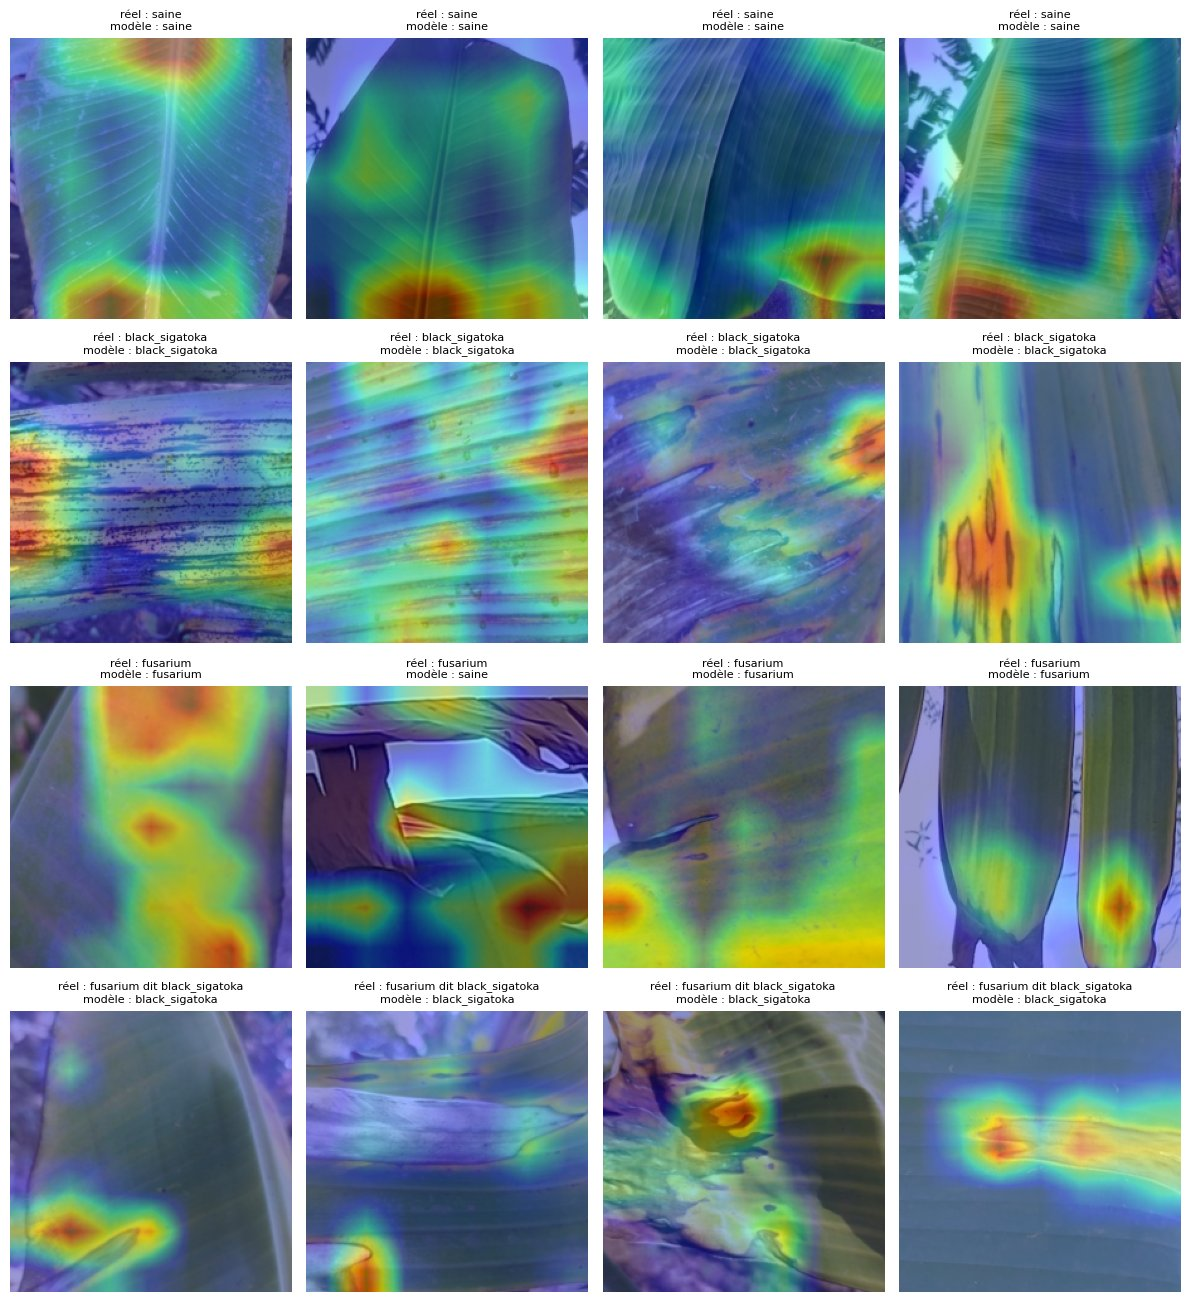
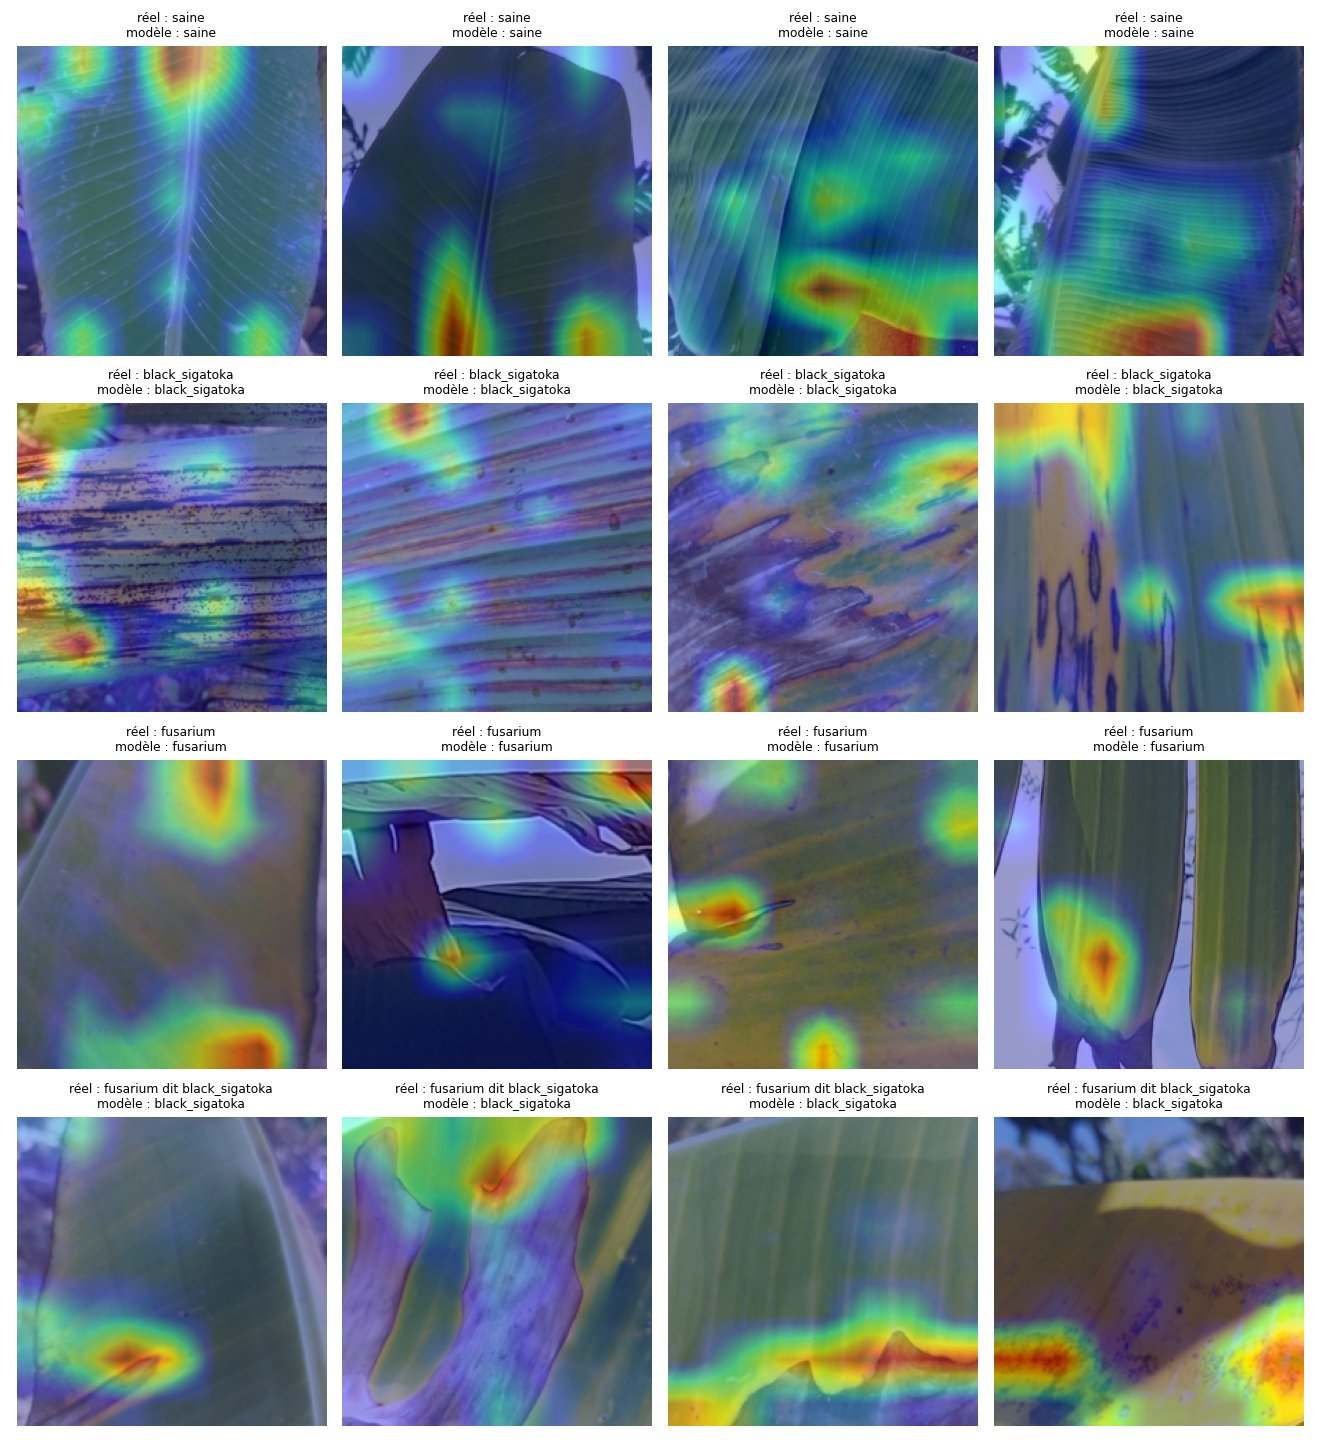
Maladies v2 : test unique sur le Bangladesh (95 % des Sigatoka, aucune malade dite saine) et cartes d'attention du modèle final

diff --git a/docs/experiences.md b/docs/experiences.md
@@ -1,6 +1,6 @@
 # Journal des essais — Field Scan
 
-Mis à jour le 02/11/2026. Les données utilisées sont décrites dans le [carnet de données](carnet_donnees.md).
+Mis à jour le 03/11/2026. Les données utilisées sont décrites dans le [carnet de données](carnet_donnees.md).
 
 ## Comment je note
 
@@ -56,6 +56,8 @@ Apprentissage sur Tanzanie 2023, validation sur Tanzanie 2025 (3 001 images), te
 Données nettoyées à nouveau (voir le carnet) : apprentissage sur Tanzanie 2023 + Pérou (16 959 images), validation sur toute la Tanzanie 2025 (11 766), test sur le Bangladesh (893). Tous les choix sont faits sur la validation, avec des règles fixées avant chaque essai ; le Bangladesh n'a servi à aucun choix.
 
 **Modèle final retenu :** ConvNeXt-Tiny pré-entraîné sur ImageNet, Pérou tiré 3 fois plus souvent, recompression JPEG et lissage des étiquettes, **moyenne de 3 modèles** entraînés avec des graines différentes, 4 vues.
+
+**Résultat au test (Bangladesh, autre pays, utilisé une seule fois) :** 95 % des Sigatoka nommées, aucune dite saine ; 1 feuille saine sur 90 signalée malade ; aucune des 331 maladies inconnues dite saine (21 % en « je ne sais pas », les autres signalées malades). Détail en fin de section.
 
 #### Comment le modèle apprend
 
@@ -114,14 +116,17 @@ Si la confiance du modèle est trop basse (seuil qui garde 95 % des photos de va
 | ConvNeXt-Tiny (27,8 M) | Pérou 0 | 242 | 23 | 21 | 2,8 % | 95,0 % | 941 / 970 / 938 | 6 |
 | ConvNeXt-Tiny | Pérou 3 | 213 | 48 | 40 | 1,0 % | 96,0 % | 992 / 983 / 911 | 9 |
 | ConvNeXt-Tiny | Pérou 3, JPEG, lissage | 213 | 36 | 29 | 1,5 % | 95,5 % | 963 / 977 / 913 | 4 |
-| **ConvNeXt-Tiny** | **Pérou 3, JPEG, lissage, moyenne de 3** | **167** | **30** | **26** | 1,8 % | **96,5 %** | **993 / 981 / 922** | 10 |
+| ConvNeXt-Tiny | Pérou 3, JPEG, lissage, moyenne de 3 | 167 | 30 | 26 | 1,8 % | 96,5 % | 993 / 981 / 922 | 10 |
+| **ConvNeXt-Tiny** | **mêmes réglages, entraînement final (celui testé)** | **154** | **30** | **25** | **1,0 %** | **96,9 %** | **988 / 985 / 923** | **7** |
 
 - **Le réseau** : ConvNeXt-Tiny fait nettement mieux que les autres (coût 213 contre 337 pour B2, avec ou sans le Pérou). Il est 6 à 7 fois plus gros que B0, mais reste utilisable sans GPU ;
 - **le Pérou** : avec MobileNetV3, plus il y a de Pérou, meilleur est le résultat sur tous les critères (642, 564, 427). Avec les autres réseaux, il réduit surtout les fausses alertes, parfois au prix d'un peu plus de Fusarium ratées (le Pérou n'a pas de Fusarium). Le coût baisse avec le Pérou pour les 4 réseaux ;
-- **la moyenne de 3 modèles** baisse le coût de 191 à 167 : les erreurs dues au hasard d'un entraînement se compensent ;
+- **la moyenne de 3 modèles** baisse le coût de 191 à 167 (puis de 196 à 154 lors de l'entraînement final) : les erreurs dues au hasard d'un entraînement se compensent ;
 - **le hasard d'un entraînement** : deux entraînements identiques de MobileNetV3 ont donné 427 et 419 ; les 3 ConvNeXt de la moyenne, seuls et sur une vue, 225, 243 et 201. Je ne tire donc de conclusion que des écarts nets ou réguliers.
 
-**Détail du modèle final sur la validation** (seuil d'alerte 0,25, seuil pour nommer la maladie 0,50, seuil de confiance 0,640) :
+Le modèle testé est celui de l'entraînement final (mêmes réglages, réentraîné avant le test). Ses seuils, réglés sur la validation : alerte 0,30, nom de la maladie 0,50, confiance 0,646. Le seuil pour nommer la maladie tombe à 0,50 : le nom est assez fiable pour être toujours donné, la réponse « malade, non identifiée » n'est donc jamais utilisée.
+
+**Détail par classe sur la validation** (entraînement précédent avec les mêmes réglages ; l'entraînement final donne des chiffres très proches : 30 malades dites saines, 1,0 % de fausses alertes, nom juste 96,9 %) :
 
 | Classe réelle | Saine | Black Sigatoka | Fusarium | Malade, non identifiée | Je ne sais pas |
 |---|---|---|---|---|---|
@@ -147,20 +152,41 @@ La distance (Mahalanobis, sur le résumé de 1 280 nombres que le réseau calcul
 
 #### Cartes d'attention
 
-Pour vérifier où le modèle regarde, j'utilise Grad-CAM : en rouge, les zones qui ont le plus pesé dans sa réponse (modèle MobileNetV3 du 01/11 ; à remplacer par les cartes du modèle final).
+Pour vérifier où le modèle regarde, j'utilise Grad-CAM : en rouge, les zones qui ont le plus pesé dans sa réponse (premier des 3 modèles finaux).
 
-![Cartes d'attention du modèle maladies v2](images/maladies_cartes_attention.jpg)
+![Cartes d'attention du modèle maladies final](images/maladies_cartes_attention.jpg)
 *Photos de validation tirées au hasard : 4 saines, 4 Black Sigatoka, 4 Fusarium, et 4 Fusarium prises pour de la Black Sigatoka.*
 
-- Black Sigatoka : le modèle regarde les taches et les stries noires ;
-- Fusarium : zones jaunies ou desséchées, de façon plus diffuse ;
-- Fusarium pris pour de la Black Sigatoka : le modèle s'arrête sur une petite marque locale (déchirure, tache sèche) qu'il prend pour une lésion ;
-- saines : sur 2 photos sur 4, le rouge est en bas de la nervure centrale. C'est peut-être un raccourci (« nervure visible = saine »), à surveiller : 4 photos ne suffisent pas pour conclure ;
-- aucun raccourci de décor visible (fond, mains, tuyaux).
+- saines : l'attention est répartie sur le limbe et les bords, et non plus concentrée sur la nervure centrale comme avec le premier MobileNetV3 (zone masquée et recadrages) ;
+- Black Sigatoka : le modèle regarde les lésions (4e photo), mais aussi parfois des bords d'image ;
+- Fusarium : zones jaunies ou desséchées ;
+- Fusarium pris pour de la Black Sigatoka : le modèle s'arrête sur une marque locale (tache sèche, bord déchiré) qu'il prend pour une lésion ;
+- aucun raccourci de décor net (fond, mains, tuyaux), mais les cartes de ConvNeXt sont plus diffuses que celles de MobileNetV3 : elles montrent une région, pas une tache précise. 16 photos ne suffisent pas pour conclure.
 
-#### Test Bangladesh
+#### Test Bangladesh (03/11/2026, une seule fois)
 
-En cours : lancé une seule fois avec le modèle final, après tous les réglages.
+Modèle final, avec les seuils réglés sur la validation, sans aucun changement après le test. La Sigatoka du Bangladesh (type non précisé) compte comme Black Sigatoka.
+
+| Classe réelle (Bangladesh) | Saine | Black Sigatoka | Fusarium | Je ne sais pas |
+|---|---|---|---|---|
+| Saine (90) | **86 (95,6 %)** | 0 | 1 | 3 |
+| Sigatoka (472) | 0 | **449 (95,1 %)** | 10 | 13 |
+| Cordana, inconnue (159) | 0 | 93 | 13 | **53 (33 %)** |
+| Pestalotiopsis, inconnue (172) | 0 | 138 | 17 | **17 (10 %)** |
+
+| | v1 | v2 |
+|---|---|---|
+| Bonnes réponses sur les classes connues (saine et Sigatoka) | 69 % | **95,2 %** |
+| Sigatoka nommée | 66 % | **95,1 %** |
+| Sigatoka dite saine | — | **0 %** |
+| Feuilles saines signalées malades | 3 % | **1,1 %** (1 sur 90) |
+| Maladies inconnues en « je ne sais pas » | 20 % | 21 % |
+| Maladies inconnues dites saines | — | **0 %** |
+
+- **Le changement de pays tient** : la v1 retrouvait 66 % des Sigatoka au Bangladesh, la v2 en nomme 95 % et n'en déclare aucune saine, pour des scores de validation proches ;
+- **aucune feuille malade n'est dite saine**, ni Sigatoka, ni maladie inconnue : toutes reçoivent une alerte ou un « je ne sais pas » ;
+- **le « je ne sais pas » reste faible** (21 %, comme en v1), comme la simulation l'annonçait pour des maladies à taches : 70 % des maladies inconnues sont prises pour de la Black Sigatoka. La confiance sépare mal connu et inconnu (AUROC 0,73 ; 0,5 = hasard). Pour un agriculteur, la feuille est quand même signalée malade, mais avec un nom qui peut être faux ;
+- le test ne contient pas de Fusarium : la reconnaissance du Fusarium dans un autre pays n'est pas mesurée.
 
 ## 3. Vigueur et stress hydrique (Sentinel-2, `run.py`)
 
